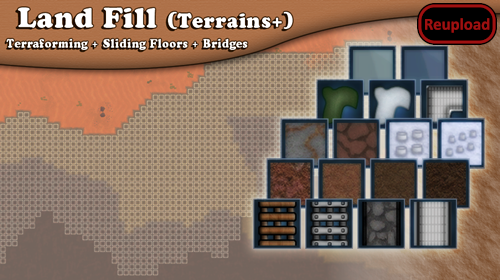
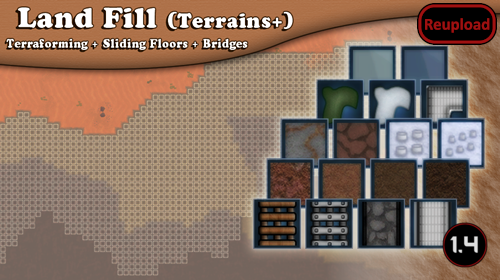
Renamed affordance from Undefined to Unstable to better show what terrains foundations can be built on

Changed region(s): [[0.87, 0.8, 0.99, 0.9714]]

diff --git a/README.md b/README.md
@@ -68,3 +68,4 @@ Compatible with existent saves but may present inconsistencies with some floor m
 
 
 
+https://steamcommunity.com/sharedfiles/filedetails/changelog/2162781055]Last updated 2023-07-21
